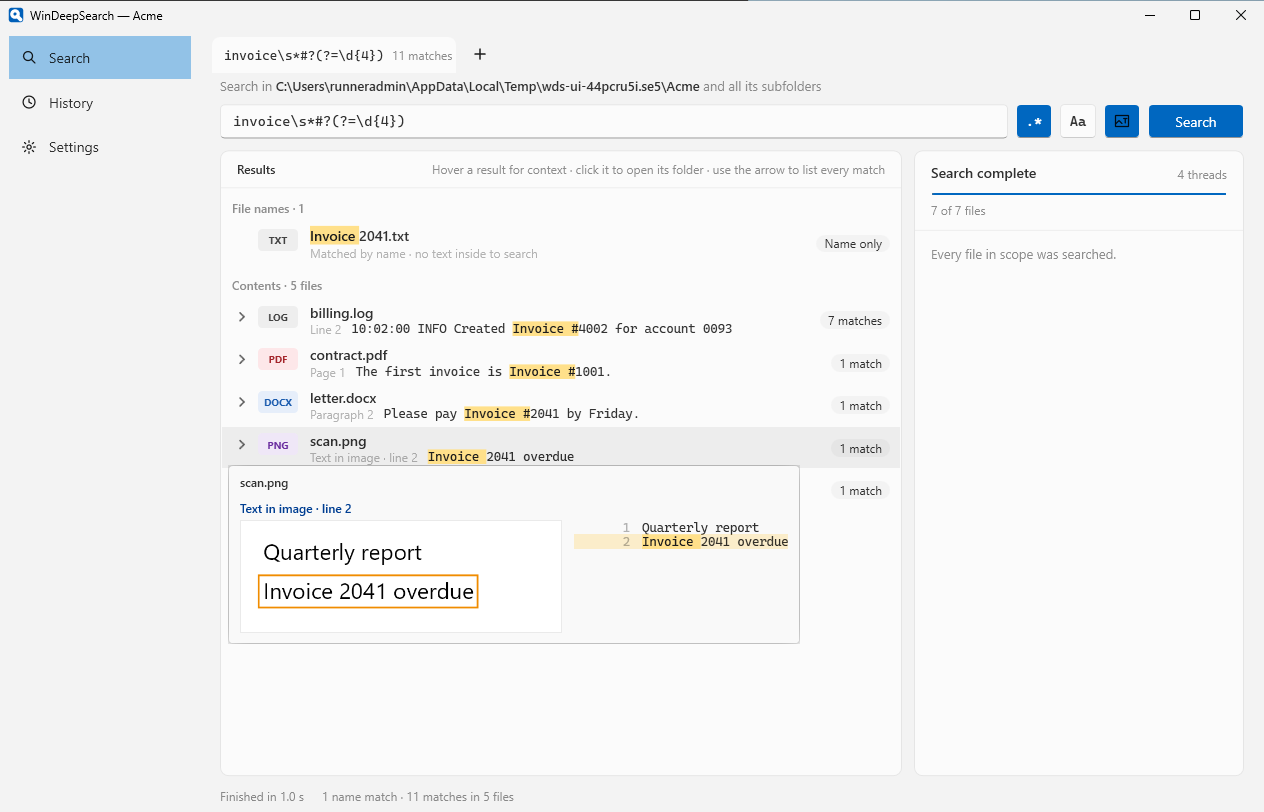
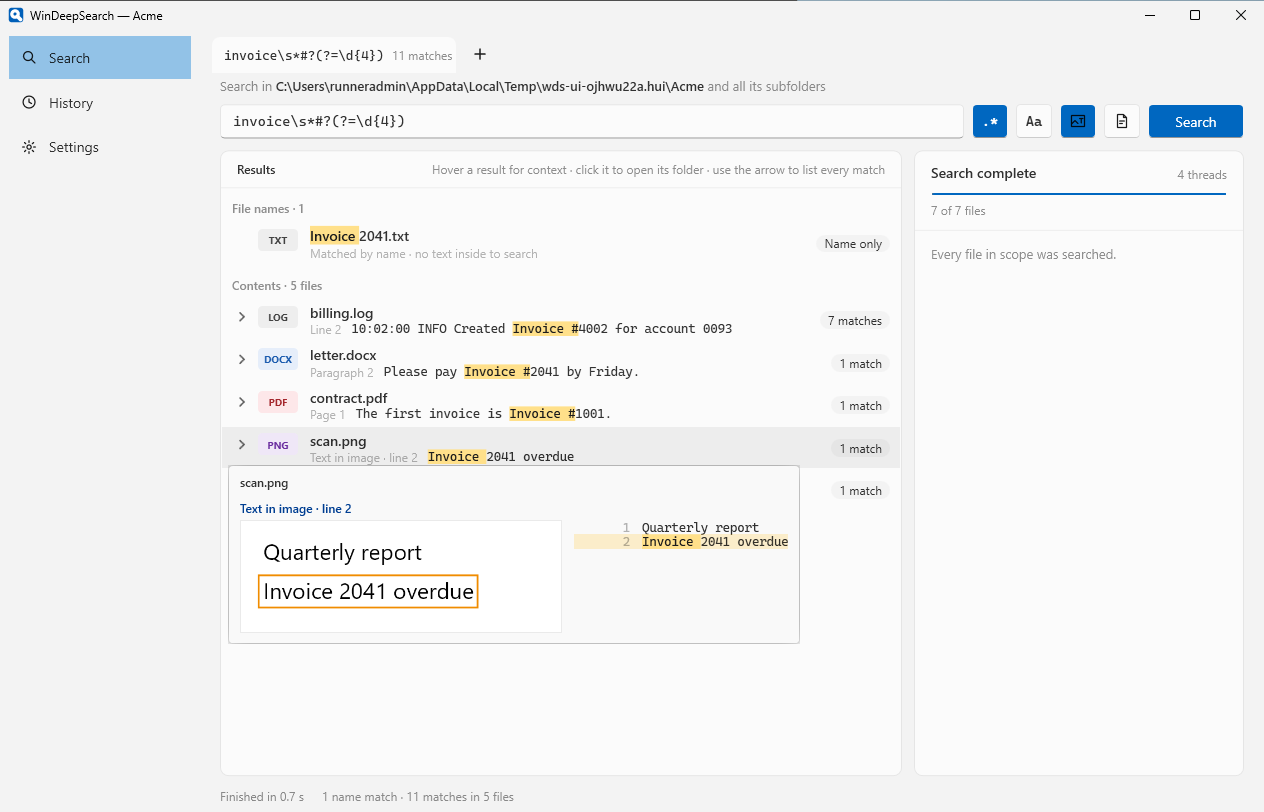
README: screenshots from 0.4.0 showing the file-names button, and one of it in use

Changed region(s): [[0.216, 0.431, 0.4937, 0.5234], [0.7714, 0.1232, 0.9256, 0.1847], [0.4628, 0.0924, 0.6479, 0.1232]]

diff --git a/README.md b/README.md
@@ -36,6 +36,8 @@ typing a pattern.
 **Just looking for a file?** The file button next to those switches to matching file and folder names only. Nothing
 is opened, so it flies through a whole drive, and folders show up in the results too.
 
+![File names only: a folder and a file whose names match, nothing read](docs/images/names-only.png)
+
 **Results you can read at a glance.** Files whose names match come first, then files ranked by how many times they
 match. Each row shows the first matching line. Hover for the lines around it, open the arrow to list every match, and
 click to jump to the file in File Explorer.
